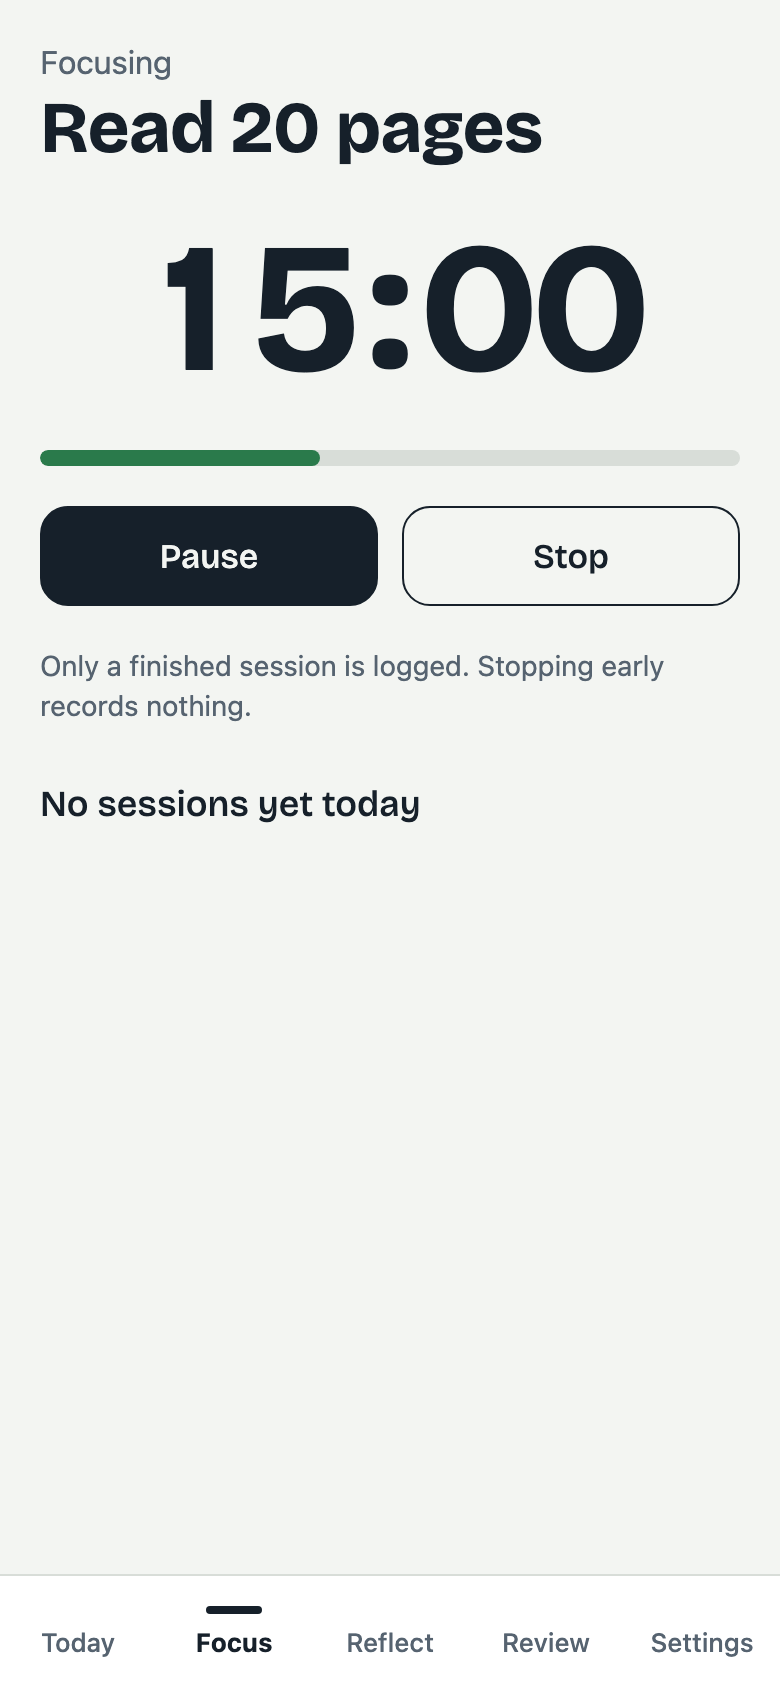
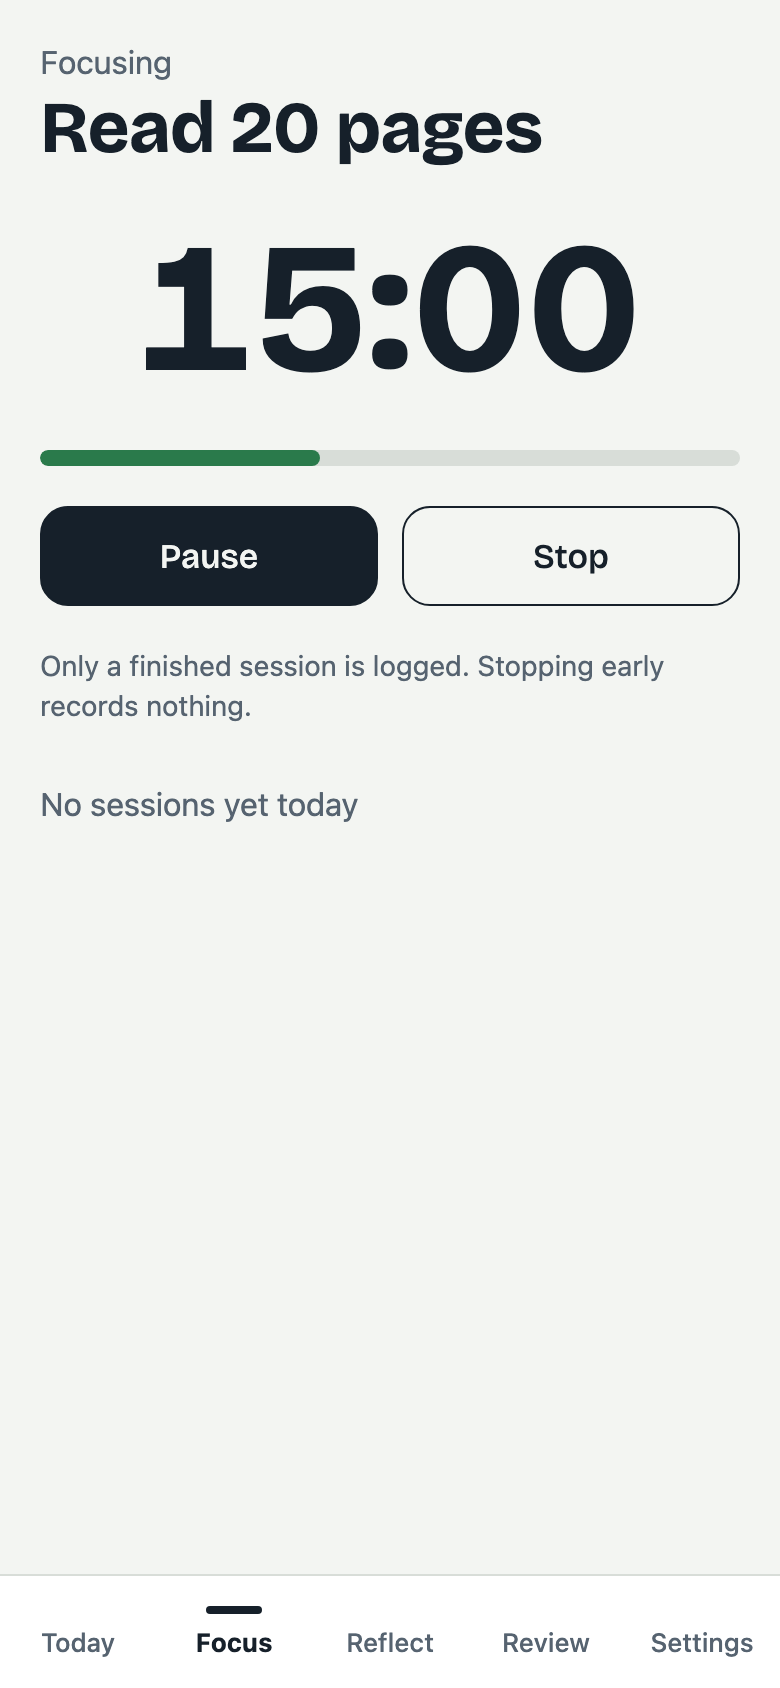
Settings eyebrow, quieter empty focus list, fresh screenshots

diff --git a/src/screens/Focus.tsx b/src/screens/Focus.tsx
@@ -122,17 +122,21 @@ export function Focus() {
   return (
     <Page>
       {body}
-      <Section title={todaySessions.length ? `Today: ${formatMinutes(todayMinutes)} in ${todaySessions.length} ${todaySessions.length === 1 ? 'session' : 'sessions'}` : 'No sessions yet today'}>
-        {todaySessions.map((s, i) => (
-          <View key={s.id}>
-            {i > 0 && <Rule />}
-            <View style={{ flexDirection: 'row', justifyContent: 'space-between', paddingVertical: 10 }}>
-              <Txt>{nameOf(s.habitId) ?? 'No habit'}</Txt>
-              <Txt muted>{formatMinutes(s.minutes)}</Txt>
+      {todaySessions.length === 0 ? (
+        <Txt muted>No sessions yet today</Txt>
+      ) : (
+        <Section title={`Today: ${formatMinutes(todayMinutes)} in ${todaySessions.length} ${todaySessions.length === 1 ? 'session' : 'sessions'}`}>
+          {todaySessions.map((s, i) => (
+            <View key={s.id}>
+              {i > 0 && <Rule />}
+              <View style={{ flexDirection: 'row', justifyContent: 'space-between', paddingVertical: 10 }}>
+                <Txt>{nameOf(s.habitId) ?? 'No habit'}</Txt>
+                <Txt muted>{formatMinutes(s.minutes)}</Txt>
+              </View>
             </View>
-          </View>
-        ))}
-      </Section>
+          ))}
+        </Section>
+      )}
     </Page>
   );
 }

diff --git a/src/screens/Settings.tsx b/src/screens/Settings.tsx
@@ -66,7 +66,10 @@ export function Settings({ version }: { version: string }) {
 
   return (
     <Page>
-      <Txt variant="display" accessibilityRole="header">Settings</Txt>
+      <View style={{ gap: 2 }}>
+        <Txt muted>Streakline {version}</Txt>
+        <Txt variant="display" accessibilityRole="header">Settings</Txt>
+      </View>
 
       <Section title="Appearance">
         <ChipRow label="Theme">
@@ -148,7 +151,7 @@ export function Settings({ version }: { version: string }) {
         />
       </Section>
 
-      <Txt variant="small" muted>Streakline {version}. No account, no server, no tracking.</Txt>
+      <Txt variant="small" muted>No account, no server, no tracking.</Txt>
     </Page>
   );
 }

diff --git a/CHANGELOG.md b/CHANGELOG.md
@@ -5,6 +5,16 @@ The format follows [Keep a Changelog](https://keepachangelog.com/en/1.1.0/).
 
 ## [Unreleased]
 
+### Design pass (round 2)
+
+Looked at every screen in the web build at 390 px and 1280 px, light and dark, empty and filled, plus the keyboard focus ring in dark mode. Most of it already held up; only these changed:
+
+- Settings has the same muted eyebrow over its title as every other screen (it now carries the version).
+- Focus: with no sessions today, "No sessions yet today" is quiet muted text instead of a section heading.
+- Committed the previous round's unfinished accessibility edits after e2e passed with them: a `main` landmark, headings default to level 1 (habit name in the sheet is level 2), the sheet dialog is named by its title, the year heatmap can take keyboard focus and scroll with the arrow keys.
+- README screenshots retaken from the running web build.
+- Left as is, on purpose: the Review legend shows "Done" in the ink colour rather than a habit colour, since the cells use each habit's own colour.
+
 Found by cloning the repository fresh, following the README literally, and reviewing the code.
 
 ### Fixed
